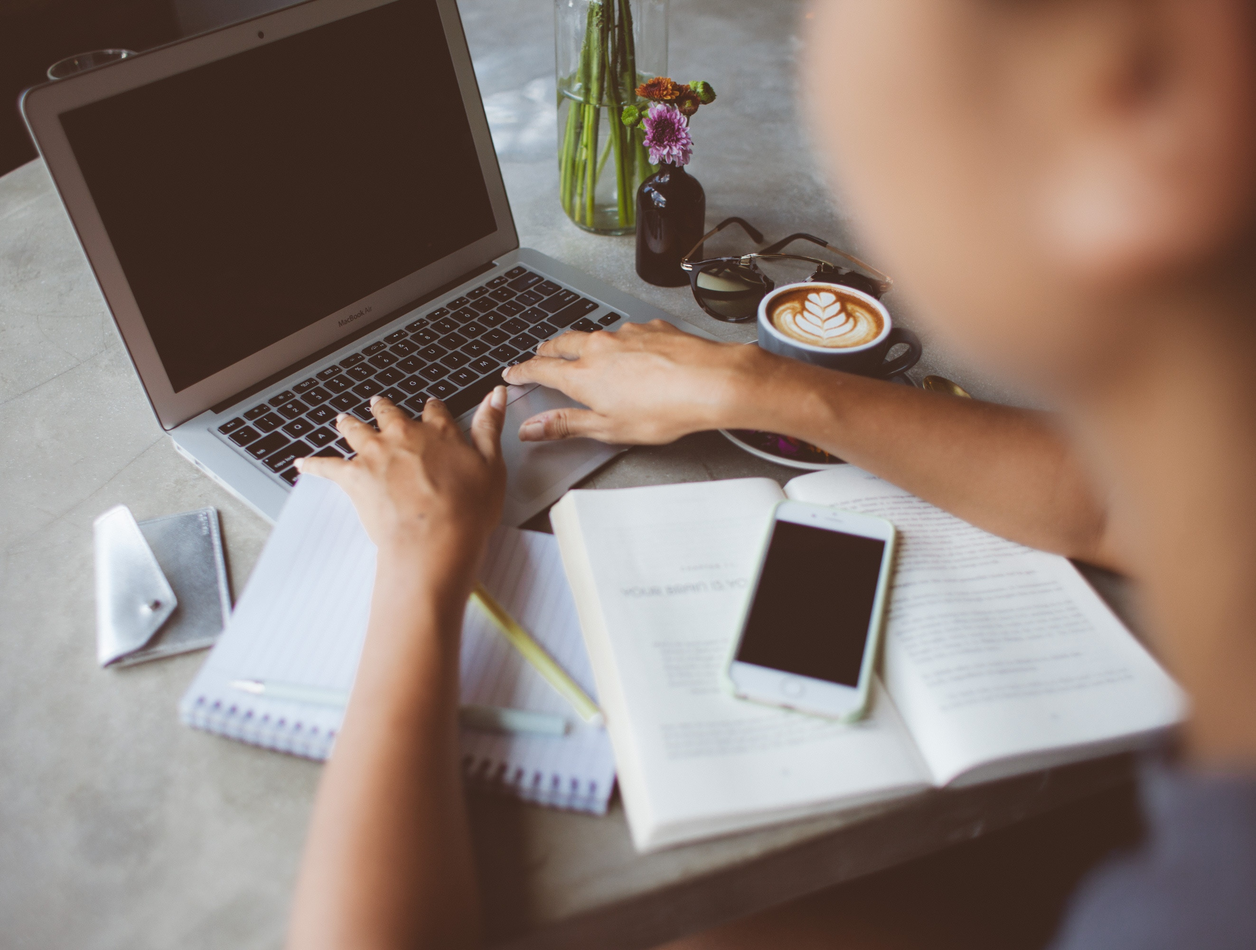
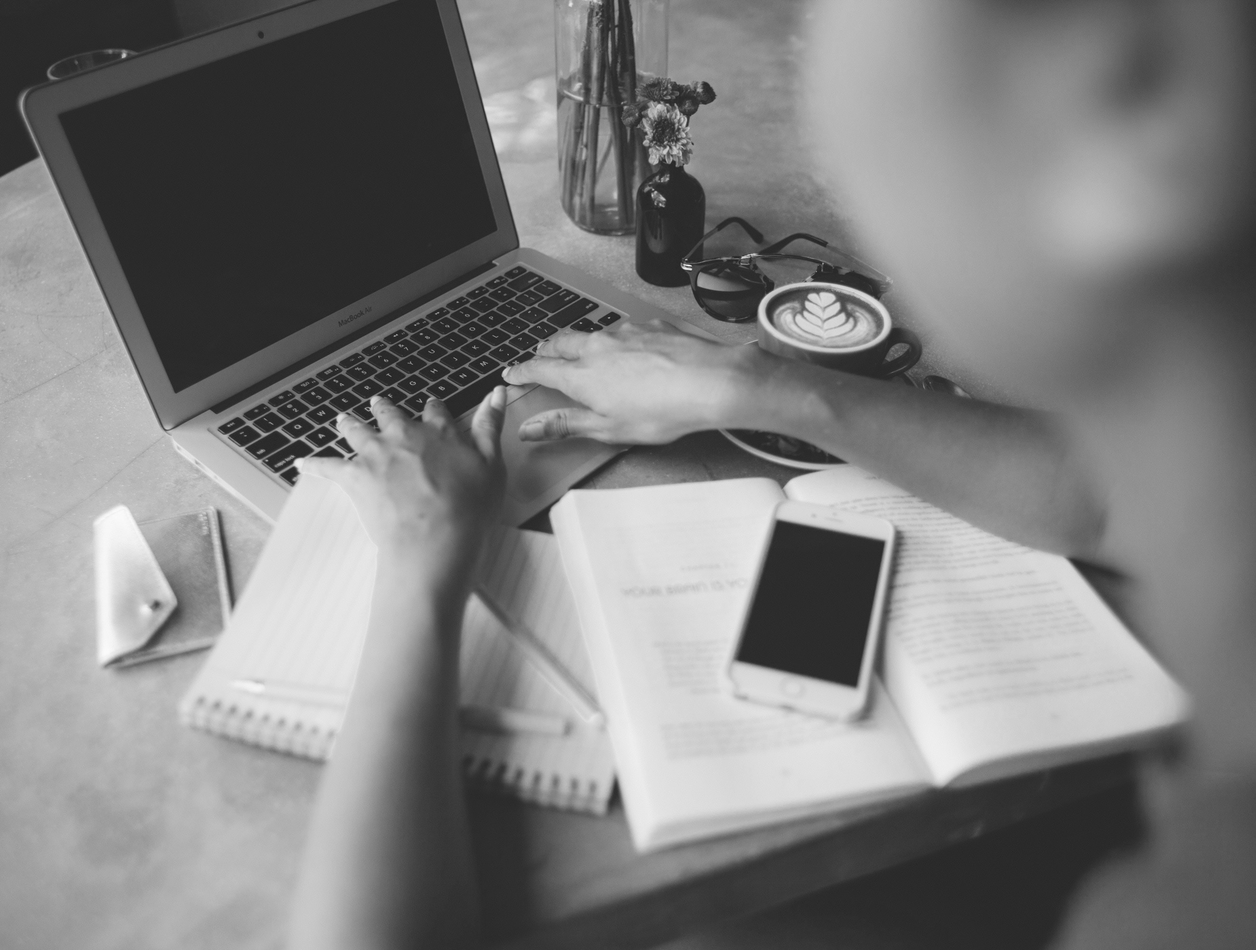
photo-bg changes

diff --git a/index.html b/index.html
@@ -67,7 +67,7 @@
                     <p class="section-caption">Lorem ipsum dolor sit amet, consectetur adipisicing elit. Quas aliquid delectus rerum placeat tenetur dolor dicta</p>
                 </header>
             </div>
-            <div class="row text-center">
+            <!--<div class="row text-center">
                 <figure class="col">
                     <img src="img/team/man-1.jpg" alt="John Smith" class="img-circle">
                     <h3>John Smith</h3>
@@ -77,8 +77,8 @@
                         <a href="" class="social-link"><i class="fa fa-twitter"></i></a>
                         <a href="" class="social-link"><i class="fa fa-linkedin"></i></a>
                     </div>
-                </figure>
-                <div class="col">
+                </figure>-->
+                <div class="col-md-6">
                     <p class="team-description">Lorem ipsum dolor sit amet, consectetur adipisicing elit. Eveniet facere quisquam commodi possimus blanditiis perspiciatis deleniti debitis sunt enim ipsam. Tempora facilis, officiis quaerat harum, asperiores architecto cumque natus dignissimos.</p>
                 </div>
                 <!--<figure class="col-md-4">
@@ -101,7 +101,7 @@
                         <a href="" class="social-link"><i class="fa fa-linkedin"></i></a>
                     </div>
                 </figure>-->
-            </div>
+           <!-- </div>-->
 
         </div>
     </section>

diff --git a/css/style.css b/css/style.css
@@ -333,7 +333,12 @@ section h3 {
 /* Section Portfolio - END*/
 
 /* Section Team */
-
+#team {
+    background-image: url(../img/me.jpg);
+    background-position: center;
+    background-size: cover;
+    height:100vh;
+}
 #team .team-description {
     margin-top: 40px;
 }
